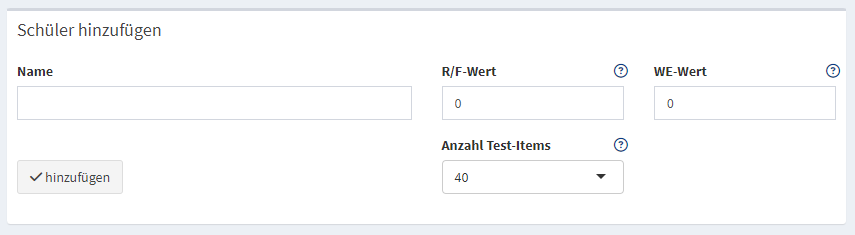
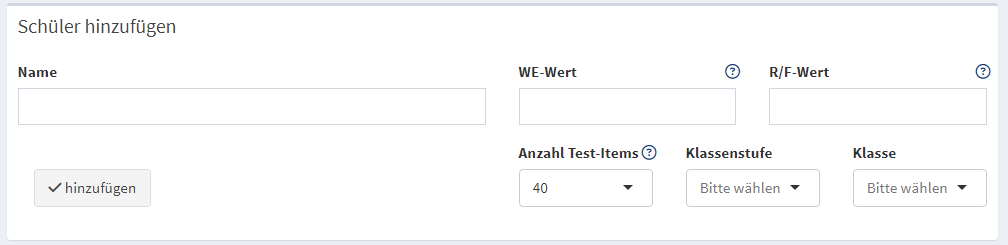
- update images in docu and fixing typos

diff --git a/helpfiles/anleitung.md b/helpfiles/anleitung.md
@@ -21,9 +21,9 @@ Diese Empfehlung sollte allerdings als erster Hinweis verstanden werden und im B
 
 ## Schritt-für-Schritt
 
-Dies ist eine **Schnell-Start Anleitung** mit den wichtigesten Schritten. Weitere Informationen sind in den weitern Kapiteln zu finden.
+Dies ist eine **Schnell-Start Anleitung** mit den wichtigesten Schritten. Weitere Informationen sind in den folgenden Kapiteln zu finden.
 
-1. **Schüler hinzufügen**: Gehen Sie zum Menüpunkt "Auswertung". Hier können Sie den `Name` des Schülers sowie den entsprechenden `R/F-Wert` und `WE-Wert` je Schüler eingeben. Klicken Sie auf `Hinzufügen`, um die Daten zur `Übersichtstabelle` hinzuzufügen. Stellen Sie sicher, dass `Anzahl der Test-Items` auf die Anzahl der bearbeiteten Lücken eingestellt ist.
+1. **Schüler hinzufügen**: Gehen Sie zum Menüpunkt "Auswertung". Hier können Sie den `Name` des Schülers sowie den entsprechenden `WE-Wert` und `R/F-Wert` je Schüler eingeben. Klicken Sie auf `Hinzufügen`, um die Daten zur `Übersichtstabelle` hinzuzufügen. Stellen Sie sicher, dass `Anzahl der Test-Items` auf die Anzahl der bearbeiteten Lücken eingestellt ist und das die `Klassenstufe` und `Klasse` richtig gewählt ist.
 
 2. **Übersichtstabelle**: Die `Übersichtstabelle` fasst alle Einträge zusammen und gibt Auskunft über die Handlungsempfehlungen je Schüler. Wenn ein oder mehrere Schüler falsch eingetragen wurden, können diese durch Anklicken markiert und mit dem `Entfernen`-Button gelöscht werden.
 
@@ -32,7 +32,7 @@ Dies ist eine **Schnell-Start Anleitung** mit den wichtigesten Schritten. Weiter
 4. **Suchfunktion**: Einzelne Schüler lassen sich durch Eintrag des Namens in das Feld `Suchen` suchen.
 
 
-### Übersicht über die Funktionen
+## Übersicht über die Funktionen
 
 ![Linkes Menüband](images/sidebar.png){style="float:left;margin-left:5px;margin-right:25px" width="150"}
 
@@ -50,17 +50,18 @@ Auf der linken Seite befindet sich ein Menüband (siehe Abbildung).
 &nbsp;
 &nbsp;
   
-#### Auswertung
+### Auswertung
 
-##### Schüler hinzufügen
+#### Schüler hinzufügen
 
-Dieser Unterpunkt dient vor allem dem Einpflegen der Schülerdaten. Hier können der `Name` des Schülers sowie der entsprechende `R/F-Wert` und `WE-Wert` je Schüler eingegeben werden und mit `Hinzufügen` zur `Übersichtstabelle` hinzugefügt werden. Vor der Eingabe des ersten Schülers sollte `Anzahl der Test-Items` auf die Anzahl der bearbeiteten Lücken (jeweils 20 pro Text) eingestellt werden. Dieser Wert sollte eigentlich für alle Schüler gleich sein. Falls ein Schüler nur einen Teil der Texte bearbeitet hat, kann der Wert aber auch für jeden Schüler verändert werden.
+Dieser Unterpunkt dient vor allem dem Einpflegen der Schülerdaten. Hier können der `Name` des Schülers sowie der entsprechende `WE-Wert` und `R/F-Wert` je Schüler eingegeben werden und mit `Hinzufügen` zur `Übersichtstabelle` hinzugefügt werden. Vor der Eingabe des ersten Schülers sollte `Anzahl der Test-Items` auf die Anzahl der bearbeiteten Lücken (typischerweise 20 pro Text) eingestellt werden. Dieser Wert sollte eigentlich für alle Schüler gleich sein. Falls ein Schüler nur einen Teil der Texte bearbeitet hat, kann der Wert aber auch für jeden Schüler verändert werden.
+Weiterhin muss die `Klassenstufe` und `Klasse` eingestellt werden. Normalerweise sollte auch dies für alle Schüler gleich sein, kann aber wie die `Anzahl der Test-Items` für jeden Schüler individuell gesetzt werden sodass auch mehrere Klassen aufeinmal eingetragen werden können.
 
 ![](images/auswertung_eingabe.PNG){width="800"}
 
-> **Tipp**: Am schnellsten lassen sich Schüler eingeben, indem man die Felder mit der **Tabulatortaste** wechselt. Also ins Feld `Name` klicken, `Name` eingeben, **Tab** (Cursor springt ins Feld `R/F-Wert`), `R/F-Wert` eintragen, **Tab**, `WE-Wert` eintragen, **Tab** (`Hinzufügen`-Button ist markiert), **Enter** (Cursor springt zurück ins Feld **Name** und der nächste Schüler kann eingetragen werden).
+> **Tipp**: Am schnellsten lassen sich Schüler eingeben, indem man die Felder mit der **Tabulatortaste** wechselt. Also ins Feld `Name` klicken, `Name` eingeben, **Tab** (Cursor springt ins Feld `WE-Wert`), `WE-Wert` eintragen, **Tab**, `R/F-Wert` eintragen, **Tab** (`Hinzufügen`-Button ist markiert), **Enter** (Cursor springt zurück ins Feld **Name** und der nächste Schüler kann eingetragen werden).
 
-##### Übersichtstabelle
+#### Übersichtstabelle
 
 Die `Übersichtstabelle` fasst alle Einträge zusammen und gibt Auskunft über die Handlungsempfehlungen je Schüler.
 
@@ -72,7 +73,7 @@ Einzelne Schüler lassen sich durch Eintrag des Namens in das Feld `Suchen` such
 
 ![](images/tabelle.PNG){width="800"}
 
-#### Statistik
+### Statistik
 
 Hier können die eingegebenen Daten als Histogramme visualisiert werden.
 
